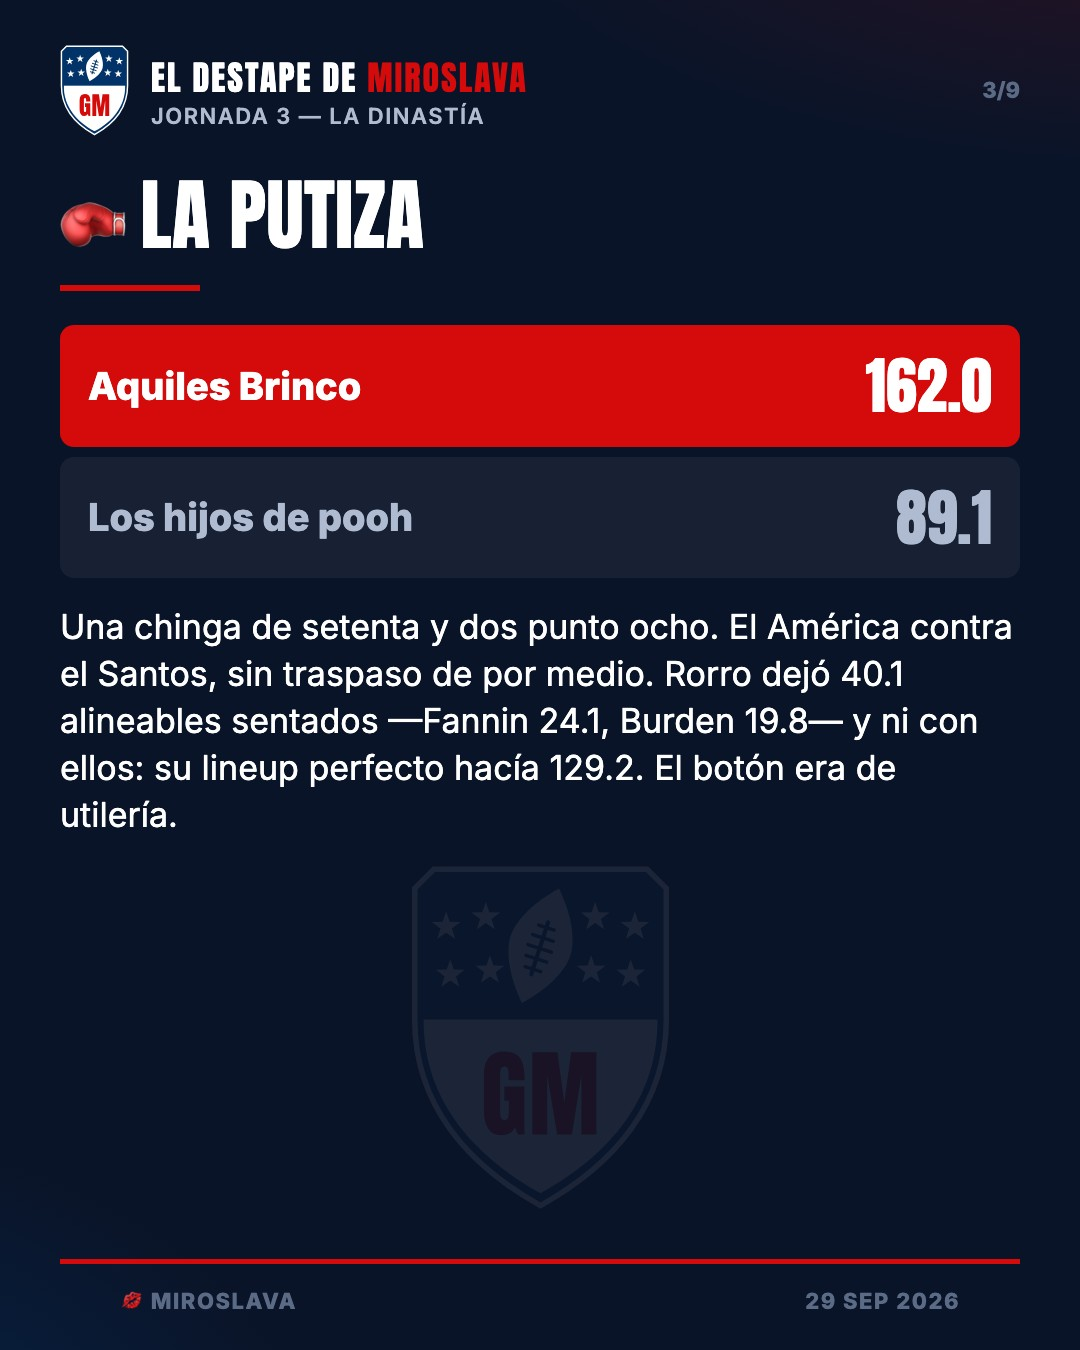
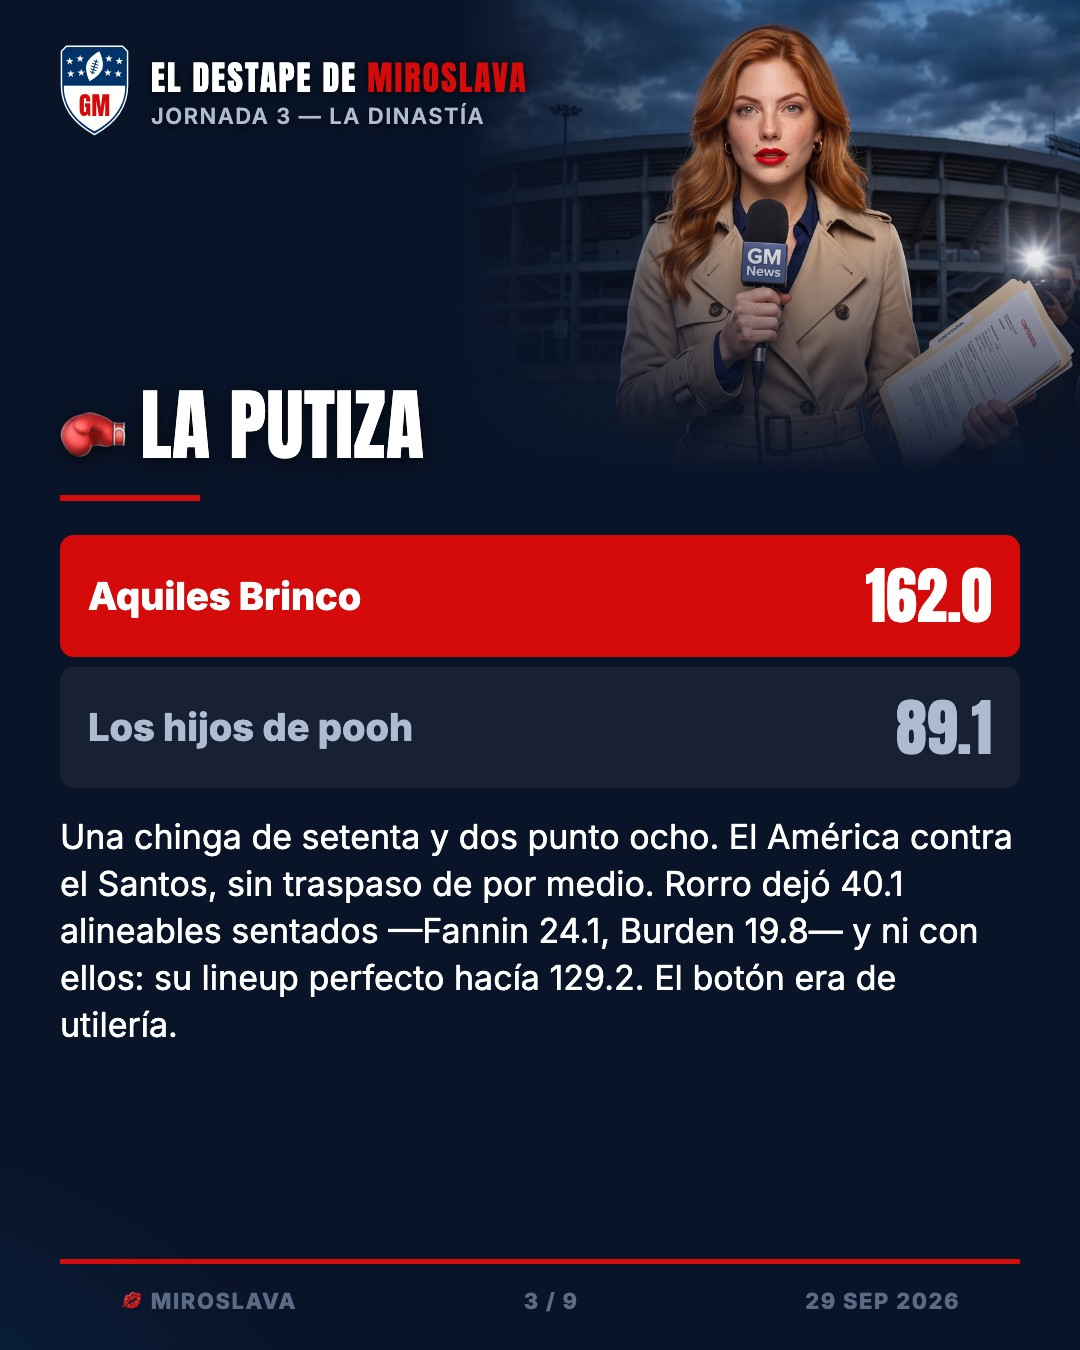
Tarjetas del Destape con el vestuario de Miroslava
Cinco fotos nuevas en data/intel/brand (gala con el Lombardi, noticiero,
exclusiva x2 y navidad). Cada sección lleva su Miroslava en una banda a la
derecha del encabezado (regadera y putiza con la gabardina de expedientes,
marcador y ranking desde el set, cierre de gala), sin repetir foto en
tarjetas seguidas; la de navidad reemplaza a la de tailgate en diciembre.
Las tarjetas densas sueltan la foto para no encoger la letra, las secciones
partidas solo la llevan en la primera, y el número de página baja al pie.

diff --git a/scripts/destape_visual.py b/scripts/destape_visual.py
@@ -266,6 +266,14 @@ footer{position:relative;display:flex;justify-content:space-between;align-items:
   padding:22px 60px 34px;border-top:5px solid #D50A0A;margin:0 60px;color:#5B6B85;
   font-size:22px;font-weight:800;letter-spacing:1.5px;text-transform:uppercase}
 /* portada */
+.banda{position:absolute;top:0;right:0;width:620px;height:470px;background-size:cover}
+.banda::after{content:"";position:absolute;inset:0;background:
+  linear-gradient(180deg,rgba(10,20,40,0) 50%,#0A1428 100%),
+  linear-gradient(90deg,#0A1428 0%,rgba(10,20,40,.55) 22%,rgba(10,20,40,0) 50%)}
+.card.con-foto .top{max-width:none}
+.kick,.meta{white-space:nowrap;text-shadow:0 2px 10px rgba(0,0,0,.7)}
+.card.con-foto h1{padding-top:250px;text-shadow:0 4px 18px rgba(0,0,0,.6)}
+.card.con-foto .sub{text-shadow:0 2px 10px rgba(0,0,0,.8)}
 .cover .foto{position:relative;height:640px;background-size:cover;background-position:42% 18%}
 .cover .foto::after{content:"";position:absolute;inset:0;
   background:linear-gradient(180deg,rgba(10,20,40,0) 45%,#0A1428 98%)}
@@ -355,21 +363,51 @@ def escudo_uri():
     return (BRAND / "gallamijos-escudo.svg").resolve().as_uri()
 
 
-FOTO = {"uri": None}
+# Vestuario de Miroslava (data/intel/brand/): archivo + altura de la cara
+# (% vertical) para encuadrar la banda de cada tarjeta sin cortarle la cabeza.
+VESTUARIO = {
+    "jersey":         ("miroslava-jersey.png", 20),         # tailgate con el micrófono GM
+    "gala":           ("miroslava-gala.jpg", 24),           # vestido rojo con el Lombardi
+    "noticiero":      ("miroslava-noticiero.jpg", 26),      # conductora en el set GM
+    "exclusiva":      ("miroslava-exclusiva.jpg", 28),      # gabardina, CONFIDENTIAL, flashes
+    "exclusiva-news": ("miroslava-exclusiva-news.jpg", 28), # misma escena, micrófono GM News
+    "navidad":        ("miroslava-navidad.jpg", 30),        # suéter navideño (solo diciembre)
+}
+# Qué Miroslava va con qué sección (por palabra del título). La primera que
+# no repita la de la tarjeta anterior gana; así el carrusel no se ve clonado.
+FOTO_SECCION = [
+    ("regadera", ["exclusiva", "exclusiva-news"]),     # el chisme: la de los expedientes
+    ("putiza", ["exclusiva-news", "exclusiva"]),       # nota roja de estadio
+    ("medallas", ["gala", "noticiero"]),               # la premiación
+    ("guerra", ["noticiero", "gala"]),                 # parte oficial desde el set
+    ("penthouse", ["noticiero", "gala", "exclusiva"]), # la tabla, rotando por tarjeta
+    ("palpitote", ["gala", "noticiero"]),
+    ("cierre", ["gala", "noticiero"]),
+]
+FOTOS = {}
 
 
-def foto_uri():
-    """La foto de marca pesa 2752px; se usa una copia de 1400px en JPG para
-    que el PDF no pase de 10 MB (el original la metía completa)."""
-    return FOTO["uri"] or (BRAND / "miroslava-jersey.png").resolve().as_uri()
+def foto_uri(nombre="jersey"):
+    """Copias de 1400px en JPG: los originales metían 10 MB al PDF."""
+    return FOTOS.get(nombre) or (BRAND / VESTUARIO[nombre][0]).resolve().as_uri()
 
 
-def preparar_foto(tmp):
-    im = Image.open(BRAND / "miroslava-jersey.png").convert("RGB")
-    im.thumbnail((1400, 1400))
-    out = tmp / "miroslava.jpg"
-    im.save(out, quality=86, optimize=True)
-    FOTO["uri"] = out.resolve().as_uri()
+def preparar_fotos(tmp):
+    for nombre, (archivo, _) in VESTUARIO.items():
+        if not (BRAND / archivo).exists():
+            continue
+        im = Image.open(BRAND / archivo).convert("RGB")
+        im.thumbnail((1400, 1400))
+        out = tmp / f"m-{nombre}.jpg"
+        im.save(out, quality=86, optimize=True)
+        FOTOS[nombre] = out.resolve().as_uri()
+
+
+def elegir_foto(titulo, anterior):
+    t = titulo.lower()
+    prefs = next((f for clave, f in FOTO_SECCION if clave in t), ["noticiero", "gala"])
+    prefs = [f for f in prefs if f in VESTUARIO] + [f for f in VESTUARIO if f not in ("navidad", "jersey")]
+    return next((f for f in prefs if f != anterior), prefs[0])
 
 
 def fecha_legible(nombre):
@@ -379,21 +417,32 @@ def fecha_legible(nombre):
     return f"{int(m.group(3))} {MESES[int(m.group(2)) - 1]} {m.group(1)}"
 
 
-def tarjeta(cuerpo_html, jornada, fecha, pag, total, titulo=None, emoji="", sub=""):
+def tarjeta(cuerpo_html, jornada, fecha, pag, total, titulo=None, emoji="", sub="",
+            foto=None, foto_final="jersey"):
     cab = (f"<h1><span class='e'>{emoji}</span>{html.escape(titulo)}</h1>"
            + (f"<div class='sub'>{html.escape(sub)}</div>" if sub else "")
            + "<div class='rule'></div>") if titulo else ""
+    banda = (f"<div class='banda' style=\"background-image:url('{foto_uri(foto)}');"
+             f"background-position:50% {VESTUARIO[foto][1]}%\"></div>") if foto else ""
     return f"""<!doctype html><html><head><meta charset="utf-8">{FUENTES}
-<style>{CSS_CARD.replace("ESCUDO", escudo_uri())}.relleno{{background-image:url('{foto_uri()}')}}</style></head><body data-ultima="{int(pag == total)}"><div class="card">
+<style>{CSS_CARD.replace("ESCUDO", escudo_uri())}.relleno{{background-image:url('{foto_uri(foto_final)}')}}</style></head><body data-ultima="{int(pag == total)}"><div class="card{' con-foto' if foto else ''}">
+{banda}
 <div class="top"><img src="{escudo_uri()}"><div><div class="kick">EL DESTAPE DE <b>MIROSLAVA</b></div>
-<div class="meta">{html.escape(jornada)}</div></div><div class="pag">{pag}/{total}</div></div>
+<div class="meta">{html.escape(jornada)}</div></div></div>
 {cab}<main>{cuerpo_html}</main>
-<footer><span>💋 Miroslava</span><span>{fecha}</span></footer></div><script>
+<footer><span>💋 Miroslava</span><span>{pag} / {total}</span><span>{fecha}</span></footer></div><script>
 /* Todo cabe en 1080x1350: si el cuerpo se desborda, se encoge (zoom) hasta
    que entra. Así el carrusel sale parejo 4:5 sin cortar texto. */
 document.fonts.ready.then(() => {{
   const m = document.querySelector("main"); let z = 1;
-  while (m.scrollHeight > m.clientHeight + 1 && z > 0.55) {{ z -= 0.02; m.style.zoom = z; }}
+  const ajustar = () => {{ z = 1; m.style.zoom = 1;
+    while (m.scrollHeight > m.clientHeight + 1 && z > 0.55) {{ z -= 0.02; m.style.zoom = z; }} }};
+  ajustar();
+  /* Si la foto obliga a encoger la letra de más, gana la letra: fuera foto. */
+  const card = document.querySelector(".card.con-foto");
+  if (card && z < 0.8) {{
+    card.classList.remove("con-foto"); document.querySelector(".banda").remove(); ajustar();
+  }}
   /* Tarjeta corta: el hueco lo llena Miroslava, no el vacío. */
   const ult = m.lastElementChild;
   const libre = ult ? m.getBoundingClientRect().bottom - ult.getBoundingClientRect().bottom - 30 : 0;
@@ -408,13 +457,13 @@ document.fonts.ready.then(() => {{
 </script></body></html>"""
 
 
-def portada_html(portada_lineas, secciones, jornada, fecha, total):
+def portada_html(portada_lineas, secciones, jornada, fecha, total, foto="jersey"):
     cuerpo = html_bloques(bloques(portada_lineas), "card")
     indice = "".join(f"<span><b>{s['emoji']}</b>{html.escape(cap(s['titulo'].split(' — ')[0].lower()).replace('miroslava', 'Miroslava'))}</span>"
                      for s in secciones)
     return f"""<!doctype html><html><head><meta charset="utf-8">{FUENTES}
 <style>{CSS_CARD}</style></head><body><div class="card cover">
-<div class="foto" style="background-image:url('{foto_uri()}')"></div>
+<div class="foto" style="background-image:url('{foto_uri(foto)}')"></div>
 <img class="escudo" src="{escudo_uri()}">
 <div class="titulo"><div class="t1">EL DESTAPE</div><div class="t2">DE MIROSLAVA</div>
 <div class="jor">{html.escape(jornada)} · {fecha}</div></div>
@@ -424,12 +473,19 @@ def portada_html(portada_lineas, secciones, jornada, fecha, total):
    que entra. Así el carrusel sale parejo 4:5 sin cortar texto. */
 document.fonts.ready.then(() => {{
   const m = document.querySelector("main"); let z = 1;
-  while (m.scrollHeight > m.clientHeight + 1 && z > 0.55) {{ z -= 0.02; m.style.zoom = z; }}
+  const ajustar = () => {{ z = 1; m.style.zoom = 1;
+    while (m.scrollHeight > m.clientHeight + 1 && z > 0.55) {{ z -= 0.02; m.style.zoom = z; }} }};
+  ajustar();
+  /* Si la foto obliga a encoger la letra de más, gana la letra: fuera foto. */
+  const card = document.querySelector(".card.con-foto");
+  if (card && z < 0.8) {{
+    card.classList.remove("con-foto"); document.querySelector(".banda").remove(); ajustar();
+  }}
 }});
 </script></body></html>"""
 
 
-def pdf_html(portada_lineas, secciones, jornada, fecha):
+def pdf_html(portada_lineas, secciones, jornada, fecha, foto="jersey"):
     liga = jornada.split("—")[-1].strip() or "La Gallamijos"
     cuerpo = []
     for s in secciones:
@@ -443,7 +499,7 @@ def pdf_html(portada_lineas, secciones, jornada, fecha):
 <div class="ftr"><span>{html.escape(jornada)}</span><span>{fecha}</span><span>💋 Miroslava</span></div>
 <table class="pagina"><thead><tr><td><div class="sp-top"></div></td></tr></thead>
 <tfoot><tr><td><div class="sp-bot"></div></td></tr></tfoot><tbody><tr><td><div class="cuerpo">
-<div class="portada"><div class="foto" style="background-image:url('{foto_uri()}')"></div>
+<div class="portada"><div class="foto" style="background-image:url('{foto_uri(foto)}')"></div>
 <div><div class="t1">EL DESTAPE DE <b>MIROSLAVA</b></div><div class="jor">{html.escape(jornada)} · {fecha}</div>
 {html_bloques(bloques(portada_lineas), "pdf")}</div></div>
 {"".join(cuerpo)}
@@ -528,28 +584,35 @@ def main():
                       for i in range(0, len(ranks), POR_TARJETA_RANKING)]
             for k, tr in enumerate(trozos):
                 sub = (s["sub"] + " · " if s["sub"] else "") + f"{tr[0][1][0]}–{tr[-1][1][0]}"
-                plan.append((s, tr + (resto if k == len(trozos) - 1 else []), sub))
+                # Solo la primera tarjeta de una sección partida lleva foto:
+                # en las de continuación el espacio es para la letra.
+                plan.append((s, tr + (resto if k == len(trozos) - 1 else []), sub, k == 0))
         else:
-            plan.append((s, bs, s["sub"]))
+            plan.append((s, bs, s["sub"], True))
     total = len(plan) + 1
 
     with tempfile.TemporaryDirectory() as t:
         tmp, perfil = Path(t), Path(t) / "perfil"
-        preparar_foto(tmp)
+        preparar_fotos(tmp)
+        # Diciembre = playoffs del fantasy: portada y despedida con suéter navideño.
+        principal = "navidad" if edicion.stem[5:7] == "12" and "navidad" in FOTOS else "jersey"
         if "--solo-pdf" not in sys.argv:
             out = destino / "01-portada.jpg"
-            captura(portada_html(portada, secciones, jornada, fecha, total), out, tmp, perfil)
+            captura(portada_html(portada, secciones, jornada, fecha, total, principal), out, tmp, perfil)
+            anterior = principal
             print(f"  {out.relative_to(ROOT)}")
-            for i, (s, bs, sub) in enumerate(plan, start=2):
+            for i, (s, bs, sub, con_foto) in enumerate(plan, start=2):
                 slug = re.sub(r"[^a-z0-9]+", "-", s["titulo"].lower().split(" — ")[0]
                               .translate(str.maketrans("áéíóúñ", "aeioun"))).strip("-")[:28]
                 out = destino / f"{i:02d}-{slug}.jpg"
+                foto = elegir_foto(s["titulo"], anterior) if con_foto else None
+                anterior = foto or anterior
                 captura(tarjeta(html_bloques(bs, "card"), jornada, fecha, i, total,
-                                s["titulo"], s["emoji"], sub), out, tmp, perfil)
+                                s["titulo"], s["emoji"], sub, foto, principal), out, tmp, perfil)
                 print(f"  {out.relative_to(ROOT)}")
         if "--solo-tarjetas" not in sys.argv:
             src = tmp / "edicion.html"
-            src.write_text(pdf_html(portada, secciones, jornada, fecha))
+            src.write_text(pdf_html(portada, secciones, jornada, fecha, principal))
             pdf = destino / f"{edicion.stem}.pdf"
             chrome(["--no-pdf-header-footer", f"--print-to-pdf={pdf}", src.as_uri()], perfil, pdf)
             print(f"  {pdf.relative_to(ROOT)}")

diff --git a/data/intel/miroslava.md b/data/intel/miroslava.md
@@ -27,6 +27,14 @@ mismo commit en que aparezca (regla de coherencia). Última actualización:
   luego se vuelve a renderizar. Por eso el .txt en el repo tiene que ser la
   versión publicada: si el user publica con cambios, se sincroniza el .txt
   antes de renderizar.
+  **Vestuario de Miroslava para las tarjetas** (user, 2026-09-29, en
+  `data/intel/brand/`): `jersey` (tailgate, portada y despedida), `gala`
+  (vestido rojo con el Lombardi → medallas, cierre), `noticiero` (set GM →
+  marcador, ranking, palpitote), `exclusiva` y `exclusiva-news` (gabardina,
+  CONFIDENTIAL, flashes → regadera y putiza) y `navidad` (suéter → portada y
+  despedida SOLO en diciembre). El mapa sección→foto vive en `FOTO_SECCION`
+  de `destape_visual.py`; nunca la misma foto en dos tarjetas seguidas, y si
+  la foto obliga a encoger la letra de más, la tarjeta sale sin foto.
 
 ## Miroslava (el personaje)
 
